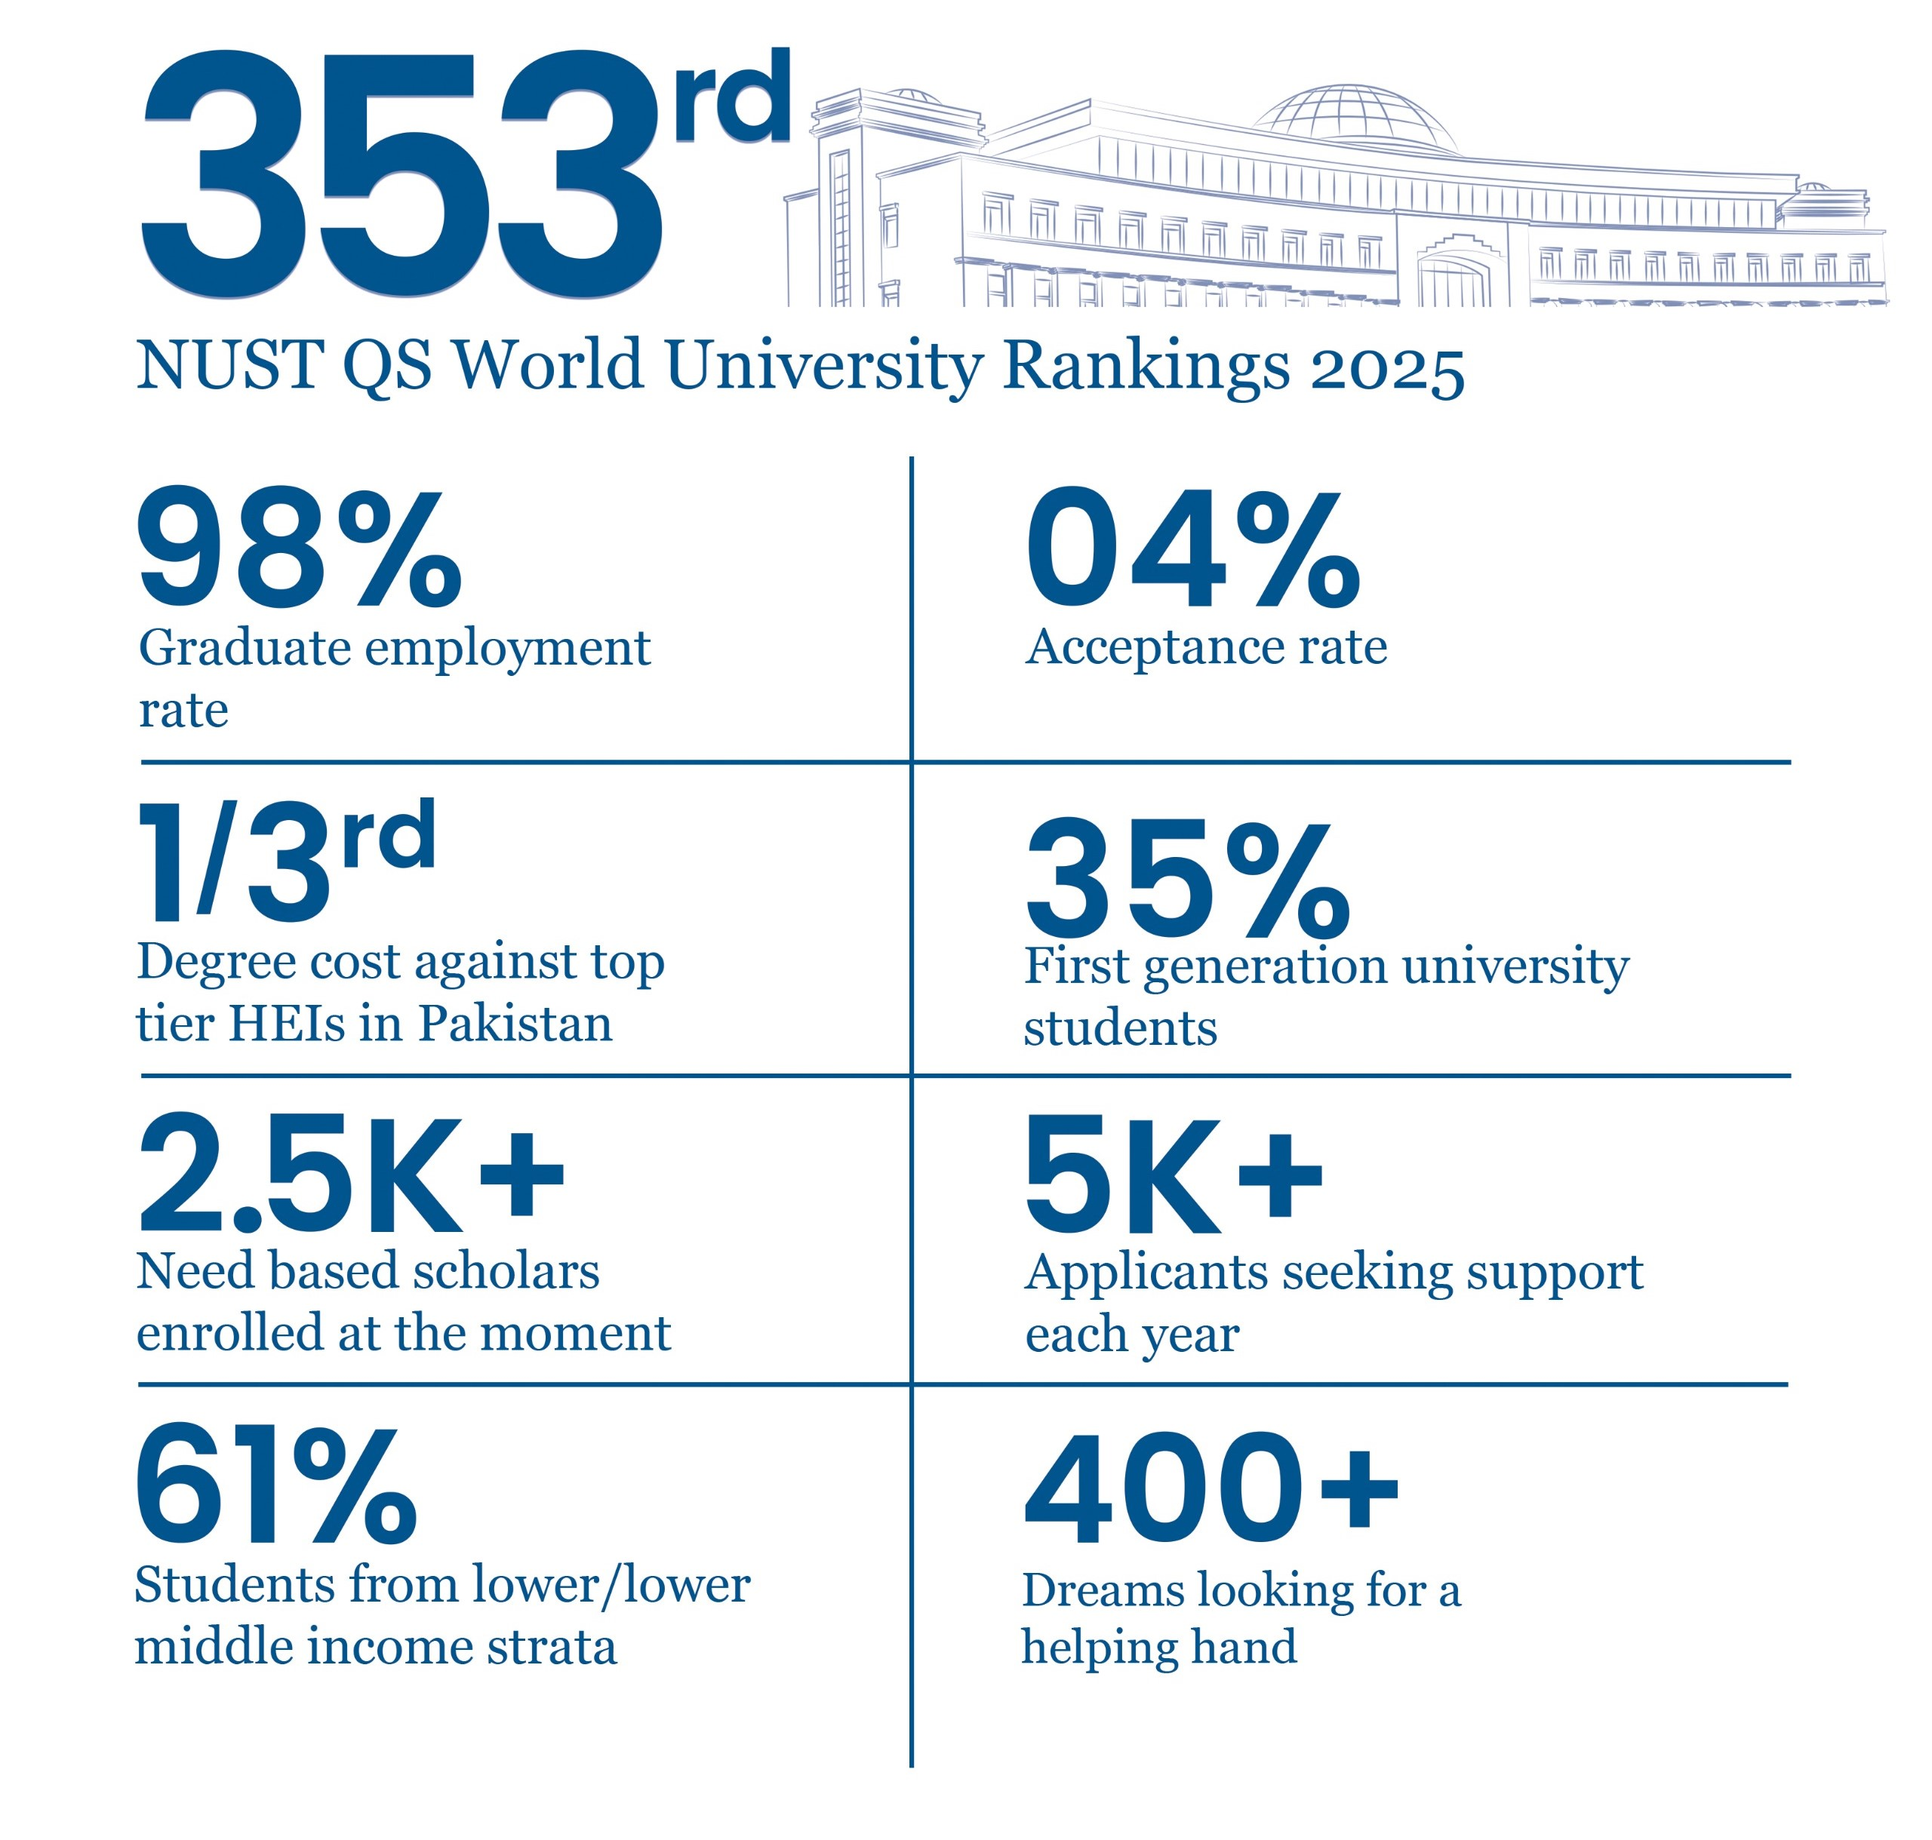
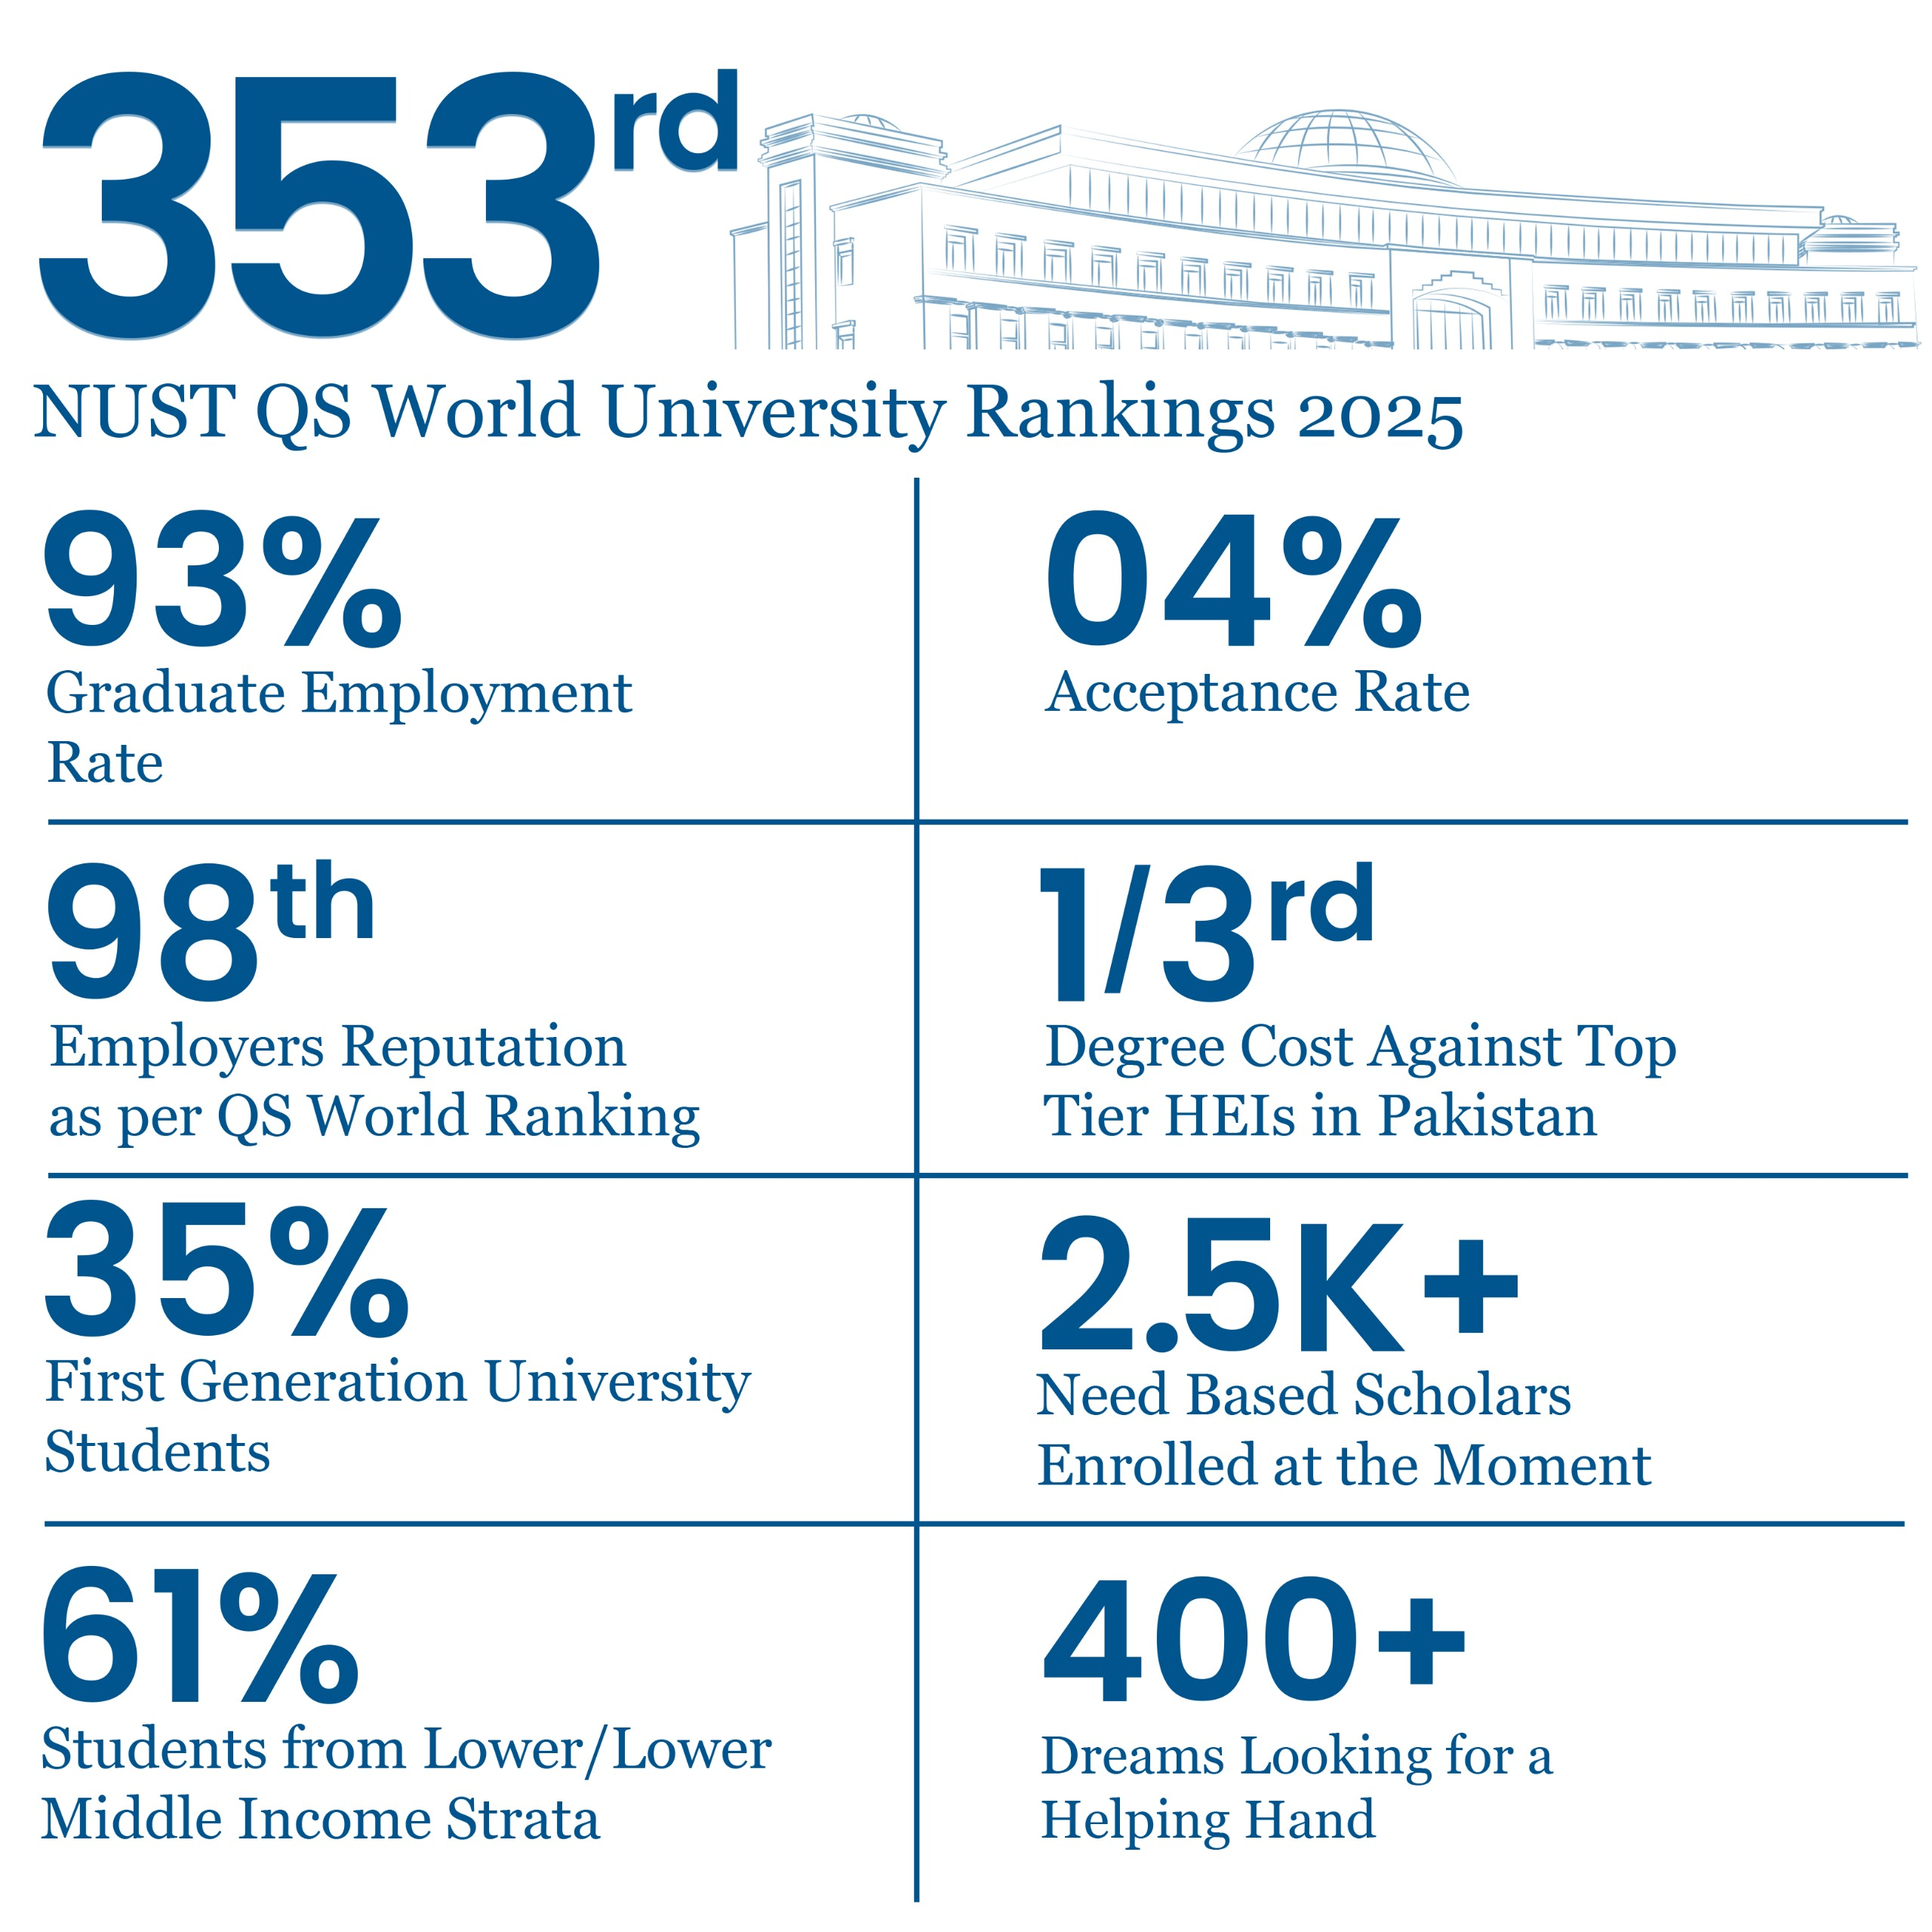
update in slider and pages

Changed region(s): [[0.0, 0.0, 1.0, 0.966]]

diff --git a/resources/views/template/slider.blade.php b/resources/views/template/slider.blade.php
@@ -116,7 +116,7 @@
         <div class="col-md-8">
             <div class="p-3 p-md-5 mt-5">
                 <p class="text-dark responsive-text">
-                    By supporting NUST students, you're investing in a world-class education that yields remarkable results. With a <b>94% graduate employment rate and a global QS ranking of 353, NUST is the premier engineering university in Pakistan, offering top-tier education at 1/3rd of the cost against other leading HEIs in Pakistan.</b> Your contribution will empower talented individuals to achieve their full potential, driving innovation and progress in their fields. Join us in shaping the future of Pakistan's next generation of leaders and change-makers.
+                    By supporting NUST students, you're investing in a world-class education that yields remarkable results. With a <b>93% graduate employment rate and a global QS ranking of 353, NUST is the premier engineering university in Pakistan, offering top-tier education at 1/3rd of the cost against other leading HEIs in Pakistan.</b> Your contribution will empower talented individuals to achieve their full potential, driving innovation and progress in their fields. Join us in shaping the future of Pakistan's next generation of leaders and change-makers.
                 </p>
             </div>
         </div>
